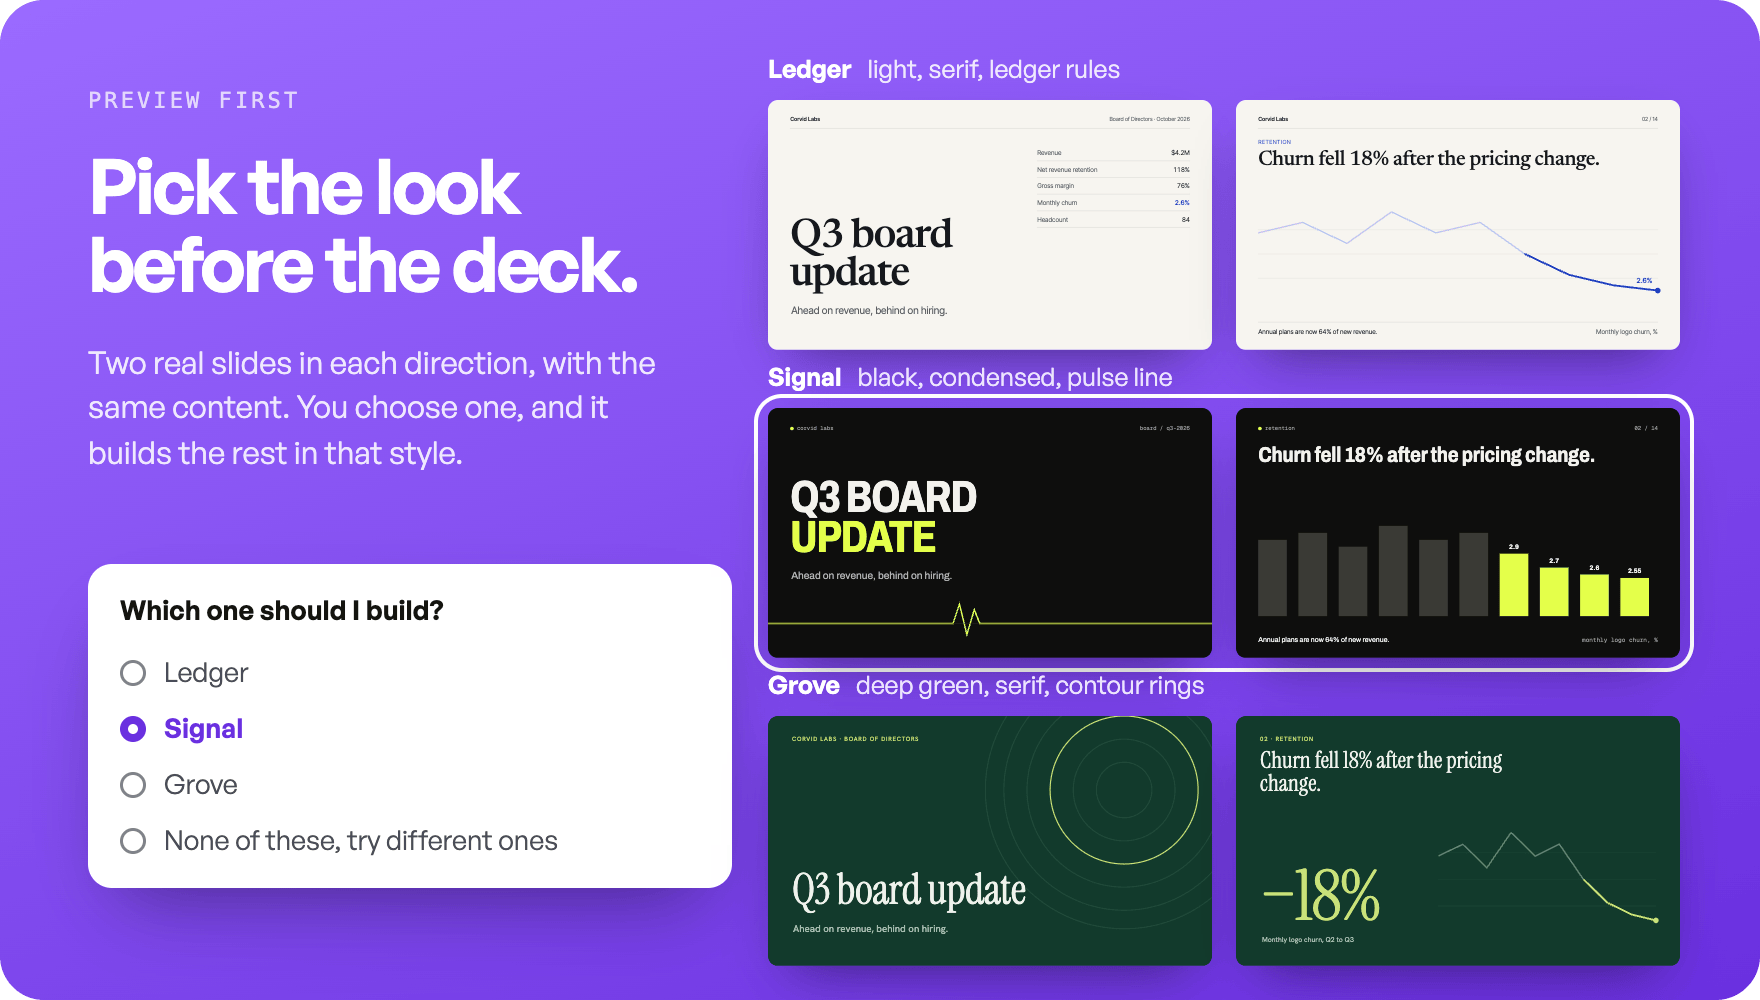
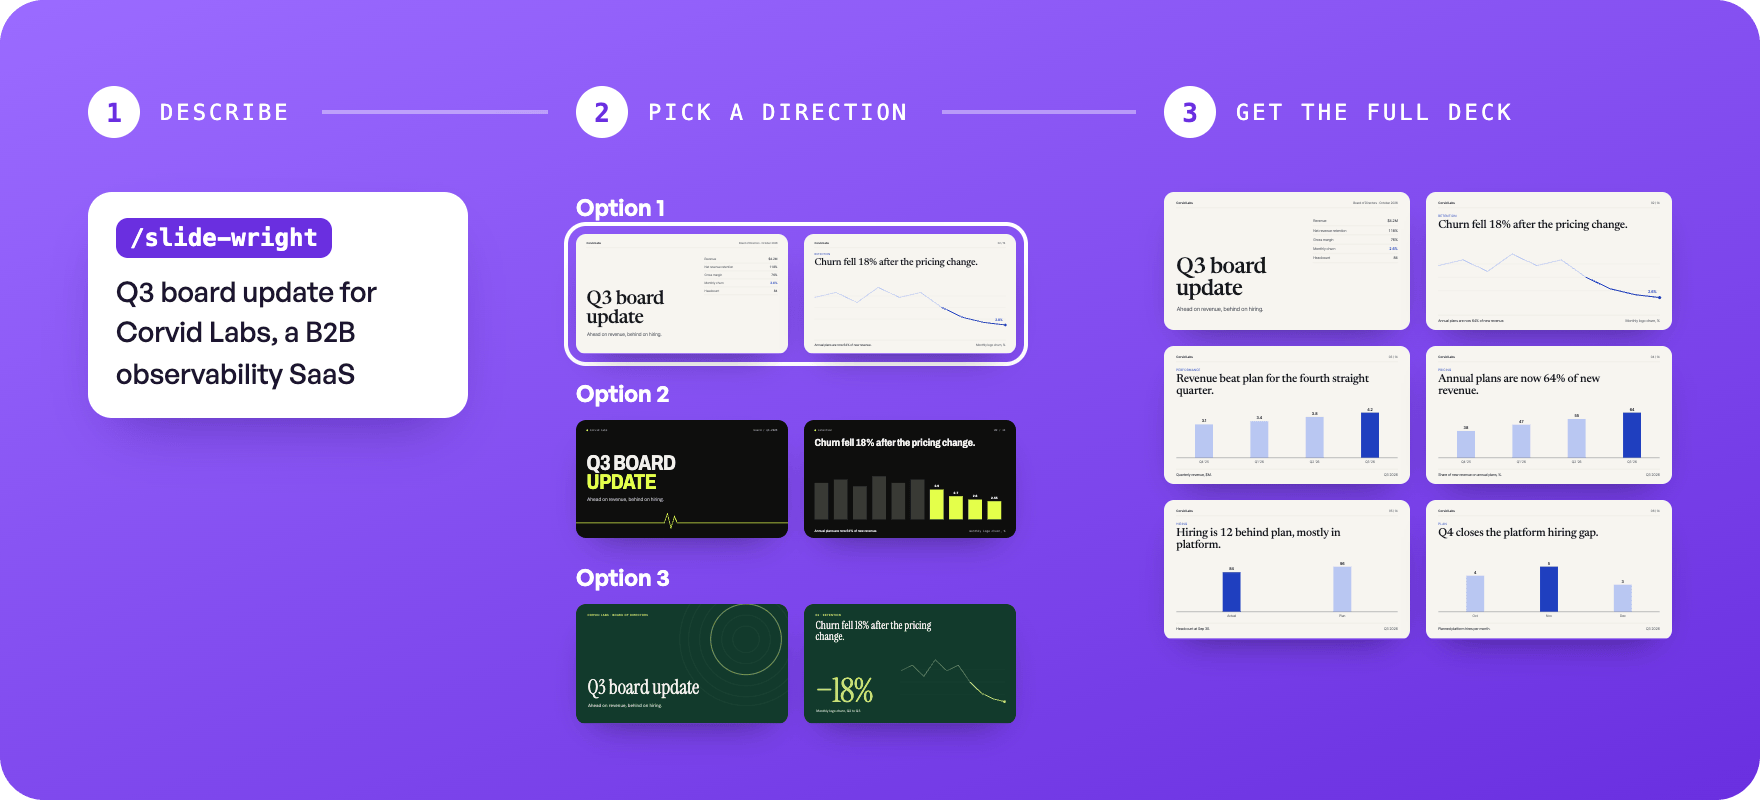
docs: show How it works as a three-step flow

diff --git a/README.md b/README.md
@@ -52,7 +52,7 @@ Then ask for a deck:
 
 ## How it works
 
-![The same two slides of a Q3 board update shown in three design directions, Ledger, Signal and Grove, next to the agent's question "Which one should I build?" with Signal selected](assets/how-it-works.png)
+![Three steps: the prompt "/slide-wright Q3 board update for Corvid Labs, a B2B observability SaaS", the same two slides in three design directions with option 1 selected, and the full deck built in that direction](assets/how-it-works.png)
 
 1. **Describe the deck.** A topic, rough notes or a full outline.
 2. **Answer two questions.** How many design directions to compare, and whether the slides should animate.
